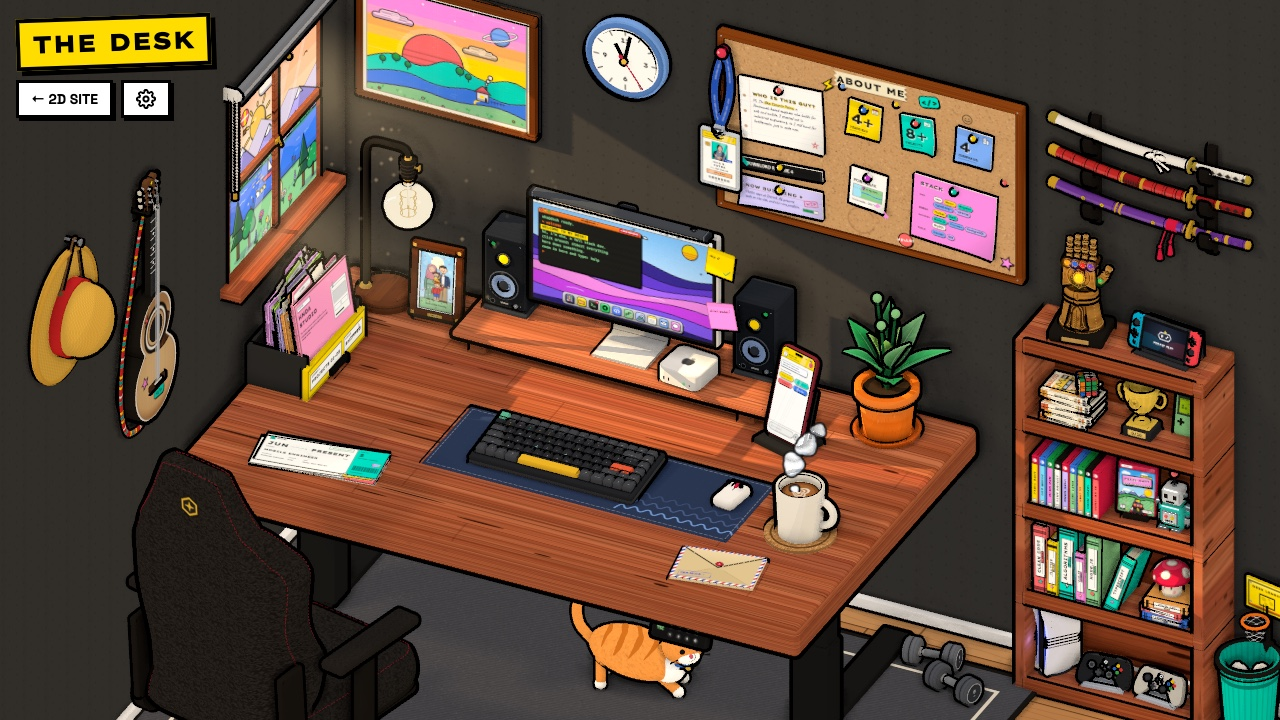
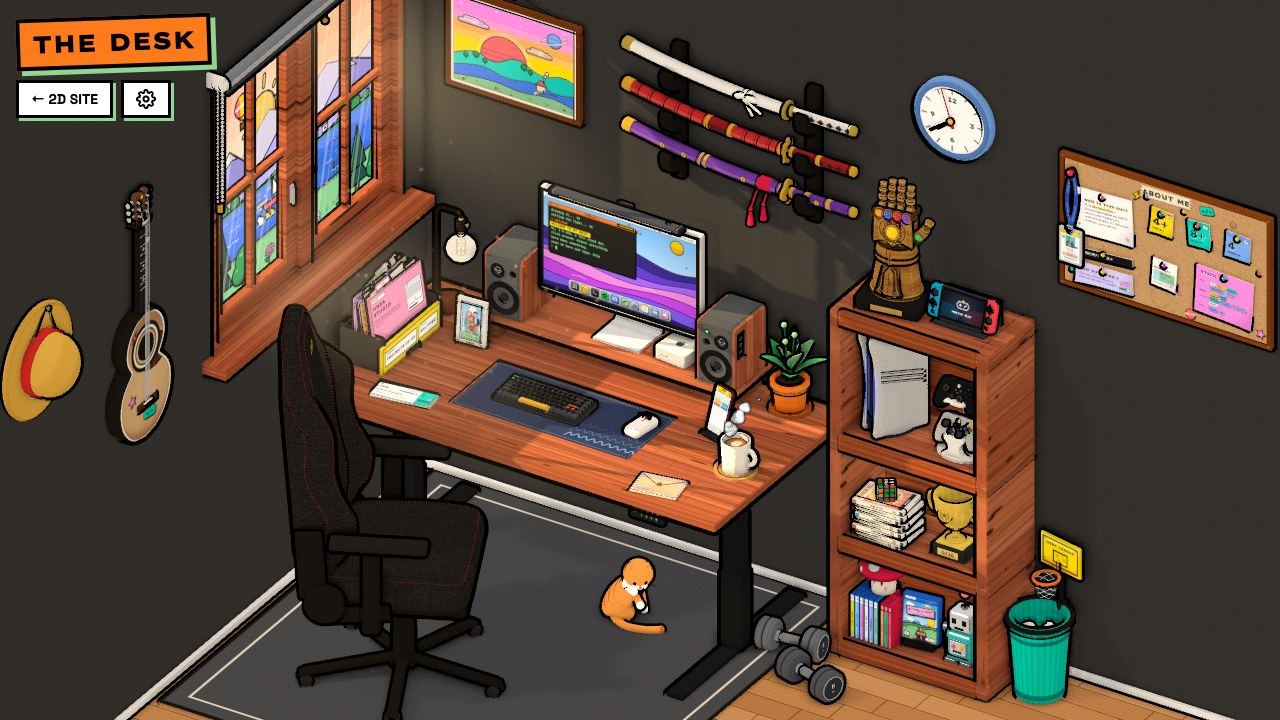
docs(readme): retake the screenshots after the wall rearrangement, list check:app
- Hero, morning and night shots retaken at the same sizes (1012x954 on the
  light grey wall; 1280x720 on graphite, night in the dark theme) with the
  new back wall, the side-on chair and the reframed overview, clear weather
- Scripts table lists npm run check:app
- The boot loader row mentions its step status and the hand-off to the monitor

diff --git a/README.md b/README.md
@@ -186,7 +186,7 @@ part of the scene, not a video playing behind the page.
 | ✒ **Lines that stay sharp** | Screen-space outlines keep their weight as you zoom in. Rendering follows device density, up to 3×. |
 | 🎬 **Every prop gets a close-up** | GSAP moves between framed camera shots; foreground props clip out of the way so they don't block the view or clicks. |
 | 🧩 **Small things, shared draws** | Compatible toon meshes and simpler shadow proxies are batched. Original meshes still handle picking and animation. |
-| 🚪 **The room starts before the scene** | An HTML boot loader appears before JavaScript, then fades into the desk. |
+| 🚪 **The room starts before the scene** | An HTML boot loader appears before JavaScript and reports each step, shader warm-up included, then hands its terminal over to the monitor on the desk. |
 
 Audio respects the shared mute setting. The app tries to start Web Audio automatically;
 when the browser blocks autoplay, a user gesture unlocks it. Recorded layers and their
@@ -275,6 +275,7 @@ allowlist and an API rate limit of 100 requests per 15 minutes per IP. Frontend-
 | `npm run preview` | Serve the production build locally |
 | `npm run lint` | ESLint |
 | `npm run check:desk` | Every desk check in turn, with a passed count at the end |
+| `npm run check:app` | App checks outside the desk: safe chat formatting, theme storage fallback, the API's CORS allowlist and chat streaming, with no network calls |
 | `node scripts/check-desk-lighting.cjs` | Time cycle, sky/light alignment, rain, transitions, strip lighting and shadow sampler limits |
 | `node scripts/check-desk-quality.cjs` | Resolution, frame scheduling and decorative shadow budgets |
 | `node scripts/check-desk-toon-batch.cjs` | Batching, transforms, visibility, picking and material fallbacks |
